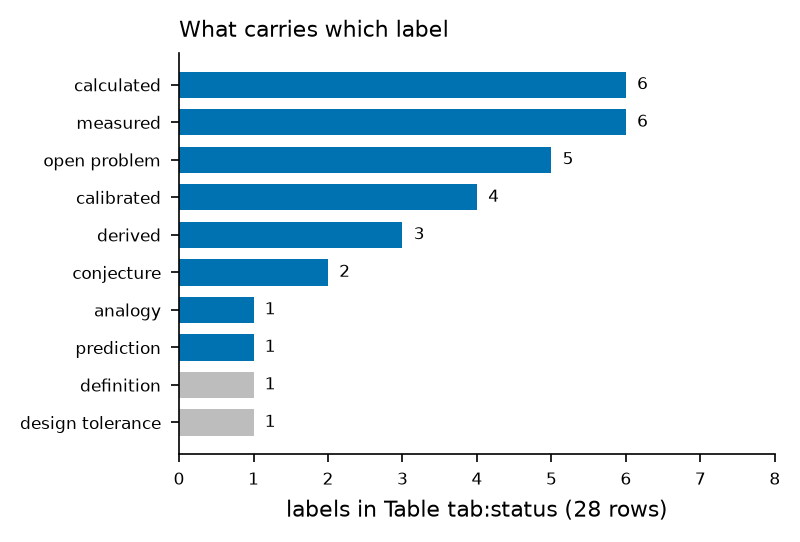
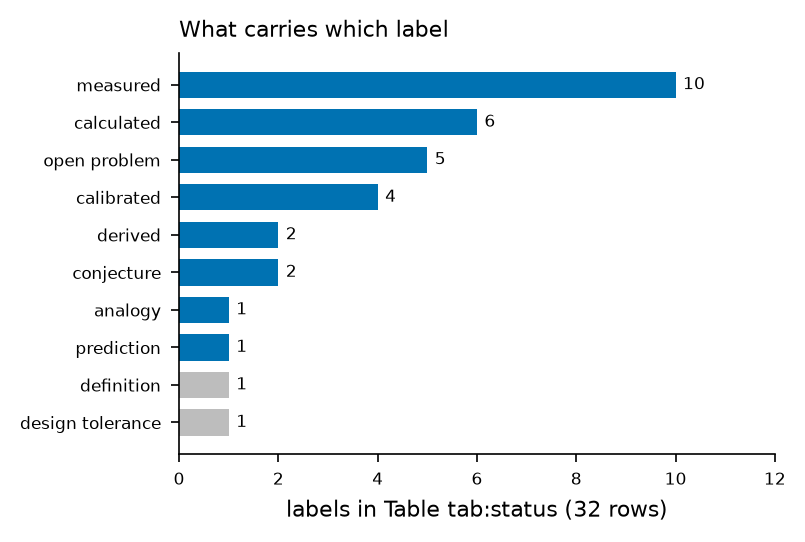
Book audit pass 2: leukocyte, status; summary figure with commissioned IAM-A; floor-at-temperature labels (OTH-072)

diff --git a/docs/book/part6/p6_22_leukocyte.tex b/docs/book/part6/p6_22_leukocyte.tex
@@ -33,14 +33,14 @@ All three are \conjecture.
 \toprule mechanism & end & which cells & test, and where it stands \\\midrule\endhead
 the leukocyte is the tumor: leukemias, lymphoma, myeloma; clonal hematopoiesis as the pre-malignant form & above & the affected lineage; the others near 1.00 & the affected lineage read against its own healthy floor. Not yet possible: on the neutrophil sites leukemic blood stayed Normal in 6 of 10, and progenitor floors on EPIC are not built \\
 aging & above & slowly, per person, over years & serial readings of one person; serial mode is not yet built (Chapter~\ref{ch:serial}) \\
-T-cell exhaustion, immunosenescence & below & CD4 and CD8 specifically, with neutrophils near 1.00 in the same specimen & needs T-cell floors; chain v3 reads neutrophils only \\
+T-cell exhaustion, immunosenescence & below & CD4 and CD8 specifically, with neutrophils near 1.00 in the same specimen & on single molecules, IAM-A now reads CD8 T cells against their own reference (commissioned on healthy CD8 T cells); on arrays, T-cell floors are not yet built \\
 emergency hematopoiesis: immature cells pushed out of the marrow & composition first & immature fraction up; immature cells may read below Normal & needs a progenitor group in Stage~A \\\bottomrule
 \end{longtable}
 \end{center}
 
 \section{Aging}
 
-The direction of aging on the neutrophil gauge is not yet measured on chain v3. \openprob{} One development reading on 450K arrays, outside the chain's platform, found
+The direction of aging on the neutrophil gauge is not yet measured by the commissioned chain. \openprob{} One development reading on 450K arrays, outside the chain's platform, found
 neutrophil Met-A rising with age among controls with $\rho=0.23$; the same arrays carried a slide effect large
 enough to split the reading by sex, so the trend is not separated from the instrument. \observed{} One reading is that an old immune system has had more written
 over a lifetime onto the same surface, with less headroom, which is the same direction as clonal hematopoiesis. \conjecture{} Whether an elevation in old blood is a slope
@@ -49,19 +49,17 @@ the others.
 
 \section{What the leukocyte gauge does not do}
 
-It does not detect a solid tumor through the blood cells' $A$. Immune cells are not expected to take on a tumor's state by fighting it. \conjecture{} A solid cancer, if it
-shows in whole blood at all, shows through composition or through shed cells. Chain v3 holds no template for a non-blood cell, so it does not detect shed cells at all
-(Chapter~\ref{ch:separation}). Plasma cell-free DNA, where shed cells are a much larger share, and single molecules, where a tumor's held error is read directly, are the
+It does not detect a solid tumor through the blood cells' $A$. Immune cells are not expected to take on a tumor's state by fighting it. \conjecture{} A solid cancer, if it shows in whole blood at all, shows through composition or through shed cells. Chain v4 reads composition against IAM-Atlas v2.1, whose 79 cell types include the cells of solid organs (Chapter~\ref{ch:atlas}, Section~\ref{sec:atlas:v21story}); the Deconvolver is commissioned for the shares of four blood cell types, and its reading of shed organ cells in blood is a test still to run. Plasma cell-free DNA, where shed cells are a much larger share, and single molecules, where a tumor's held error is read directly, are the
 routes for that question (Chapter~\ref{part4:ch:reach}).
 
 \section{Why a reading of one cell does not cancel}
 
 A score pooled over many sites and many cells, computed as a case group minus a control group, can move in opposite directions under different conditions without any cell going
 both ways. Two things produce that. Pooling: some sites drift up and others down, and one lineage moves one way while another moves the other, netted by a composition that itself
-moves with disease and age. And the comparison: a control group sitting above or below 1.00 flips the sign of a departure. Neither enters chain v3. One cell is read on its own
+moves with disease and age. And the comparison: a control group sitting above or below 1.00 flips the sign of a departure. Neither enters the chain. One cell is read on its own
 identity sites, against its own healthy reference, and the methylated and unmethylated channels can be reported apart (Chapter~\ref{ch:gauge}).
 
 \section{A count, not a score}
 
 For conditions that involve the immune system as a whole, the intended report is how many immune cell types read outside Normal, and which: a count of cell readings, not one score
-for the immune system as a whole. It needs a commissioned reading for each cell type and is not yet built. \openprob
+for the immune system as a whole. It needs a commissioned reading for each cell type and is not yet built. \openprob{} The test plan's immune track asks the same question organ by organ: whether the immune cells of whole blood carry a distinct reading for the organ in which a cancer is forming, read with Group-A on patients and healthy people run in the same series.

diff --git a/docs/book/part6/p6_24_status.tex b/docs/book/part6/p6_24_status.tex
@@ -18,18 +18,20 @@ departure from the floor means loss of maintained fidelity, not of energy & \con
 Met-A $=$ mean $H(\beta)$ on the cell's identity sites over the same cell type's healthy reference & definition & Ch.~\ref{ch:meta} \\ \rowrule
 neutrophil reference on EPIC: 6 physical arrays, 6,000 identity sites, floor 0.330263 bits & \calibrated & Ch.~\ref{ch:meta} \\ \rowrule
 held-out Met-A of the six reference arrays, SD 0.020 & \measured & Ch.~\ref{ch:meta} \\ \rowrule
-IAM-A $=\varepsilon/\varepsilon_{\rm pred}(L)$, each sample against its own loose share; band v1 $0.779$--$1.055$; commissioned 2026-10-17 on healthy blood CD8 T cells & line \measured, commissioned & Ch.~\ref{ch:iama} \\ \rowrule
+Met-A commissioned 2026-10-09 on isolated neutrophils, EPIC v1 & \measured, commissioned & Ch.~\ref{ch:meta} \\ \rowrule
+IAM-A $=\varepsilon/\varepsilon_{\rm pred}(L)$, each sample against its own loose share; band v1 $0.779$--$1.055$ & definition; line \measured & Ch.~\ref{ch:iama} \\ \rowrule
 $E_{\rm hold}=3.41\,\kB T$, $\varepsilon_0=0.032$, $\varphi=E_{\rm hold}/M=0.163$ & \measured, \calc & Ch.~\ref{ch:iama} \\ \rowrule
 neutrophil position $P=1.149$ (3 donors, whole files, 1.140--1.155), earlier position form, now a development flag & \measured & Ch.~\ref{ch:iama} \\ \rowrule
 IAM-Atlas v2.1, 79 cells: commissioned 2026-10-16 for three cell references (450K) and the colon and lung blind sites & \measured & Ch.~\ref{ch:atlas} \\ \rowrule
 Deconvolution tool (atlas v2.1): commissioned 2026-10-17 for blood-cell shares (neutrophils, monocytes, CD4 T, CD8 T; arrays) & \measured & Ch.~\ref{ch:atlas} \\ \rowrule
 IAM-A (sequencing, its own reference): commissioned 2026-10-17 on healthy blood CD8 T cells & \measured & Ch.~\ref{ch:iama} \\ \rowrule
+
 Met-A C-score baseline 1.0103 (blocks of 10); healthy band 0.877--1.152, read one-sided; commissioned on whole blood 2026-10-15 & \calibrated & Ch.~\ref{ch:cscore} \\ \rowrule
 $A=1$ healthy in the middle; Normal $=1\pm0.05$ & design tolerance & Ch.~\ref{ch:gauge} \\ \rowrule
 floor $\Hmin$: Met-A $1\times10^{-7}$, IAM-A $1$--$2\times10^{-8}$ (the sample's own); surface full: Met-A 3.03, IAM-A $0.5/\varepsilon_{\rm pred}(L)$, 6.68--12.41; C-score far end 45 & \calc & Ch.~\ref{ch:gauge} \\ \rowrule
 breach and the cancer region on this gauge & \openprob{} (to be measured) & Ch.~\ref{ch:gauge} \\ \rowrule
 the Met-A floor ($H_{\min}$ on the Met-A scale) & \openprob & Ch.~\ref{ch:gauge} \\ \rowrule
-held-error floor at fixed holding energy: $0.78\times$ at 10\,\textdegree C, $1.012\times$ at 38.5\,\textdegree C & \calc & Ch.~\ref{ch:temperature} \\ \rowrule
+at fixed holding energy, held error $\varepsilon_0$: $0.73\times$ at 10\,\textdegree C, $1.016\times$ at 38.5\,\textdegree C; entropy floor $H(\varepsilon_0)$: $0.78\times$ and $1.012\times$ & \calc & Ch.~\ref{ch:temperature} \\ \rowrule
 \multicolumn{3}{@{}l}{\emph{Instrument}}\\
 intake on the array's own numbers & \calibrated{} (adopted) & Ch.~\ref{ch:instrument} \\ \rowrule
 SNP-probe tare & \openprob{} (not commissioned) & Ch.~\ref{ch:instrument} \\ \rowrule
@@ -49,14 +51,14 @@ this Part on the one gauge.
 
 \begin{figure}[htbp]\centering
 \includegraphics[width=0.62\textwidth]{figures/part6/fig_p4_24_labels.pdf}
-\caption{Status labels in Table~\ref{tab:status}, counted from the table (28 rows; 6 carry MEASURED). Gray: rows whose status is a word
+\caption{Status labels in Table~\ref{tab:status}, counted from the table (32 rows; 10 carry MEASURED). Gray: rows whose status is a word
 rather than a label. \observed}
 \label{fig:p4_labels}
 \end{figure}
 \begin{figure}[htbp]\centering
 \includegraphics[width=0.98\textwidth]{figures/part6/fig_p4_24_summary.pdf}
 \caption{Measured readings of Part~\ref{part:4} on the one gauge, each against its own healthy reference: held-out reference neutrophils
-(Chapter~\ref{ch:meta}); held-out granulocyte donors on single molecules (Chapter~\ref{ch:iama}); tared mixtures
+(Chapter~\ref{ch:meta}); healthy CD8 T cells of IAM-A's sealed grand test, each against its own loose share, with IAM-A's own Normal band (band v1, 0.779--1.055) shaded on its row (Chapter~\ref{ch:iama}); tared mixtures
 (Chapter~\ref{ch:instrument}); IMR90 channels (Chapter~\ref{ch:gauge}). Normal shaded; log scale. \measured}
 \label{fig:p4_summary}
 \end{figure}

diff --git a/docs/book/figscripts/fig_p4.py b/docs/book/figscripts/fig_p4.py
@@ -825,8 +825,9 @@ def fig_status():
 def fig_summary():
     loo = pd.read_csv(RM / "Met_A_Floors" / "metA_floors_v1_3_loo.csv"); acc = pd.read_csv(MP / "chain_tests" / "chain_acceptance.csv"); d = dnmt()
     pr = pd.read_csv(MP / "doors" / "PROC_DNMT_01_PARTB" / "dnmt_b_pairs.csv"); tp = pd.read_csv(DD / "tumour_pairs.csv").dropna(subset=["ratio"]); im = imr90()
-    g = pd.read_csv(MP / "chain_tests" / "iama_floor_granulocytes.csv")
-    rows = [("held-out reference neutrophils (Met-A)", loo.A_loo, S.IAM), ("healthy granulocytes, held out (IAM-A)", g.A_own, S.IAM),
+    GR = json.load(open(MP / "doors" / "data" / "DEV_IAMA_GRAND_01" / "grand_scored.json"))   # IAM-A as commissioned (2026-10-18; was the retired position form)
+    gA = [r["A"] for r in GR["rows"] if r.get("read")]; gband = (GR["band"]["lo"], GR["band"]["hi"])
+    rows = [("held-out reference neutrophils (Met-A)", loo.A_loo, S.IAM), ("healthy CD8 T cells, sealed grand test (IAM-A)", gA, S.IAM),
             ("tared DNA mixtures (Met-A)", acc.loc[acc.group.str.contains("mixture", case=False), "A_rel_tared"].dropna(), S.IAM),
             ("senescent IMR90, unmethylated channel", im.loc[im.state == "Senescent", "A_unmeth"], S.GOLD),
             ("SV40 IMR90, methylated channel", im.loc[im.state == "SV40", "A_meth"], S.DATA)]
@@ -834,11 +835,12 @@ def fig_summary():
     normal_band(ax, axis="x")
     y = np.arange(len(rows))[::-1]; out = []
     for yi, (lab, v, c) in zip(y, rows):
+        if "IAM-A" in lab: ax.fill_betweenx([yi - 0.3, yi + 0.3], *gband, color=NCOL, alpha=0.22, lw=0, zorder=0)   # IAM-A's own Normal band (band v1)
         v = np.asarray(v, float); ax.plot([v.min(), v.max()], [yi, yi], color=c, lw=1.0); ax.plot(v, np.full(len(v), yi), "o", color=c, ms=3)
         out.append((lab, len(v), float(v.min()), float(v.max())))
     ax.set_xscale("log"); ax.set_xlim(0.6, 2.2); ax.set_xticks([0.6, 0.7, 0.8, 0.9, 1.0, 1.25, 1.5, 2.0], ["0.6", "0.7", "0.8", "0.9", "1", "1.25", "1.5", "2"])
     ax.minorticks_off(); ax.set_yticks(y, [r[0] for r in rows], fontsize=6.3); ax.set_xlabel("reading on the one gauge (log scale; healthy = 1)")
-    ax.set_title("Measured readings of Part 4 on one gauge (each against its own healthy reference)")
+    ax.set_title("Measured readings of the cellular chapters on one gauge (each against its own reference)")
     S.save(fig, "part6", "fig_p4_24_summary")
     return out
 

diff --git a/docs/book/part7/p7_11_status_all.tex b/docs/book/part7/p7_11_status_all.tex
@@ -94,7 +94,7 @@ Neutrophil reference on EPIC (Met-A) & 0.330263 bits; 6 arrays, 6,000 identity s
 Held-out reading of the six reference arrays & standard deviation 0.020 around 1 & \measured & Ch.~\ref{ch:meta} \\
 Floor and the full surface & floor: Met-A $1\times10^{-7}$, IAM-A $1$--$2\times10^{-8}$; full: Met-A 3.03, IAM-A $0.5/\varepsilon_{\rm pred}(L)$, 6.68--12.41 & \calc & Ch.~\ref{ch:gauge} \\
 Breach and the cancer region on the gauge & to be measured & \openprob & Ch.~\ref{ch:gauge} \\
-Held-error floor at fixed holding energy & $0.78\times$ at 10~\textdegree C; $1.012\times$ at 38.5~\textdegree C & \calc & Ch.~\ref{ch:temperature} \\
+Floor at fixed holding energy & held error $0.73\times$, entropy floor $0.78\times$ at 10~\textdegree C; $1.016\times$ and $1.012\times$ at 38.5~\textdegree C & \calc & Ch.~\ref{ch:temperature} \\
 Atlas v2 intervals on held-out data & 92.7\,\% coverage & \measured & Ch.~\ref{ch:atlas} \\
 Senescent fibroblasts & unmethylated channel cleaned (0.69) & \measured & Ch.~\ref{ch:gauge} \\
 \multicolumn{4}{@{}l}{\emph{Part~\ref{part:5}: synthesis}}\\

diff --git a/docs/book/part6/p6_10_temperature.tex b/docs/book/part6/p6_10_temperature.tex
@@ -13,8 +13,7 @@ measured at 37~\textdegree C as $3.41\,\kB T$, then at another temperature
   \varepsilon_0(T)=\frac{1}{1+\exp\!\left(E_{\rm hold}/\kB T\right)} ,
   \label{eq:eps0T}
 \end{equation}
-with no exponent to choose. \derived{} given a fixed holding energy. At 10~\textdegree C this gives $\varepsilon_0=0.0233$ and a
-floor $0.78$ times the human one; at 38.5~\textdegree C, $1.012$ times (Figure~\ref{fig:eps0T}). \calc{} The alternative is a
+with no exponent to choose. \derived{} given a fixed holding energy. At 10~\textdegree C this gives $\varepsilon_0=0.0233$, 0.73 times the human value, and an entropy floor $H(\varepsilon_0)$ $0.78$ times the human one; at 38.5~\textdegree C, $\varepsilon_0=0.0325$ and an entropy floor $1.012$ times (Figure~\ref{fig:eps0T}). \calc{} The alternative is a
 cell that holds its error fixed in units of $\kB T$, adjusting its holding energy with temperature. The two are distinguished by
 one measurement.
 

diff --git a/MANIFEST.md b/MANIFEST.md
@@ -957,7 +957,7 @@ Columns: **#** the test number · **Test** · **What it is for, and why it matte
 | **OTH-069** | The report, professional, with the C-score drawn on the sphere (HEALPix) | One report per sample: every commissioned reading with its status and limits, the cell shares, IAM-A against the sample's own line, and the C-score's departures drawn on a HEALPix sphere so the clustering is visible (a picture of the same residuals the C-score scores, not a new reading). | all | Loyfer 2023 via PROC-CHANNEL-01 and DEV-ARCH-01 · ** | run | not run | 2026-10-17: untested-scope readings worded plainly in report_v4 (author decision); clean clone run 7 PASS 25 of 25 | laptop | 5 | [LIMITS_STUDY_2026-10-17](development/LIMITS_STUDY_2026-10-17.md) |  |
 | **OTH-070** | One-button test from a fresh clone | A fresh clone on a clean rented machine, one command, public sample files in, reports out; every stage runs and every number equals the committed results (release check extended to chain v4). | all | Loyfer 2023 via PROC-CHANNEL-01 and DEV-ARCH-01 · ** | run | **2026-10-17** FAIL: clean clone run 1 (job i-0d4559e967ace0f61): 18 of 25; all 7 failures from an unpinned pyarrow needing NumPy 2<br>**2026-10-17** FAIL: clean clone run 2: 23 of 25; E3 tare dropped for whole blood since 2026-10-15 (LESSONS C21), E8 v4 gauge drawn when withheld; both fixed<br>**2026-10-17** FAIL: clean clone run 3: 21 of 25; tare restored; the claim scan read the gauge legend as prose (E3, E7, E10) and an empty gauge was drawn when withheld (E8); both fixed<br>**2026-10-17** SUCCESS: clean clone run 4 (job i-0e980d41f06e19212): RELEASE CHECK v4 PASS, 25 of 25, from a fresh public clone with a new environment from chain/requirements.txt only<br>**2026-10-17** FAIL: clean clone run 5 (job i-0e16beceebf3b188e): 23 of 25; the v3 technical record drew the retired position-form IAM-A gauge with no end once 4.26 was removed, the report crashed (E4, E9); the position form keeps its own end; E4 and E9 pass locally; run 6 confirms<br>**2026-10-17** SUCCESS: clean clone run 6 (job i-0aba950537dcf09ba): 25 of 25 with the per-sample IAM-A gauge end<br>**2026-10-17** SUCCESS: clean clone run 7 (job i-0d514d933409c720f): 25 of 25 with the untested-scope wording | done 2026-10-17: 25 of 25 from a fresh public clone (runs 4 and 6) | laptop | 5 | [LIMITS_STUDY_2026-10-17](development/LIMITS_STUDY_2026-10-17.md) |  |
 | **OTH-071** | Front page and repository: the commissioned chain front and center | Only the five commissioned instruments, the head-to-head wins and tests run by the commissioned chain on the front page and repository front; older results move to an archive folder (kept, not deleted). | all | Loyfer 2023 via PROC-CHANNEL-01 and DEV-ARCH-01 · ** | running | not run | 2026-10-17: the Commissioning Campaign numbers at the top of the page (compute_snapshot); next: further author review | laptop | 5 | [LIMITS_STUDY_2026-10-17](development/LIMITS_STUDY_2026-10-17.md) |  |
-| **OTH-072** | Book audit: the cellular part (AstroGenetics, the cosmic methylome, the cell, DNA, the instruments, the atlas) | Chapter by chapter: every statement checked against the committed records and the law; every error reported to the author and fixed. | all | Loyfer 2023 via PROC-CHANNEL-01 and DEV-ARCH-01 · ** | running | not run | pass 2 2026-10-18: Landauer, surface, identity, ledgers, Met-A, C-score, translation, instrument and discipline chapters read by hand and fixed; next: leukocyte, status, bridge, floor-breach, toolbox, report, reach, development, Part 7 and appendices | laptop | 5 | [LIMITS_STUDY_2026-10-17](development/LIMITS_STUDY_2026-10-17.md) |  |
+| **OTH-072** | Book audit: the cellular part (AstroGenetics, the cosmic methylome, the cell, DNA, the instruments, the atlas) | Chapter by chapter: every statement checked against the committed records and the law; every error reported to the author and fixed. | all | Loyfer 2023 via PROC-CHANNEL-01 and DEV-ARCH-01 · ** | running | not run | pass 2 2026-10-18: Landauer, surface, identity, ledgers, Met-A, C-score, translation, instrument, discipline, leukocyte and status chapters read by hand and fixed; status summary figure redrawn with IAM-A as commissioned; floor-at-temperature label clarified in three places; next: bridge, floor-breach, toolbox, report, reach, development, Part 7 and appendices | laptop | 5 | [LIMITS_STUDY_2026-10-17](development/LIMITS_STUDY_2026-10-17.md) |  |
 | **OTH-073** | Showcase runs of the commissioned chain: each instrument in its own arena, plus declines and one person through every array instrument | Seven scenarios run once through the one-command chain on unused public data, chosen by a written rule before any file is opened, shown whatever they read; they become the example runs researchers see first (OTH-068). | all | GSE350403, GSE281305 · *unspent (checked against CANON/data_spent.csv 2026-10-17)* | planned | not run | sources checked 2026-10-17 (plan Part 5): keep GSE350403 and GSE281305; replace GSE122244 (spent), GSE199057 (normals already read), GSE245832 (stimulated); find a fresh healthy CD8 WGBS set and a fresh colon tissue set; CD8 scenario: no fresh healthy resting CD8 WGBS on GEO, so a grand-test sample runs as a labeled demonstration (plan Part 5) | AWS, small | 5 | [TEST_PLAN_TRACKS_2026-10-17](development/TEST_PLAN_TRACKS_2026-10-17.md) |  |
 
 ## HIS

diff --git a/development/METHYLPHYS_DEVELOPMENT_LOG.md b/development/METHYLPHYS_DEVELOPMENT_LOG.md
@@ -2381,3 +2381,4 @@ Machines: i-02ddbcb364e254e53 i-0583ab0c226363999.
 
 Book audit pass 2 (OTH-072): Landauer (retired term; IAM-A own-reference reading added beside Met-A; WGBS comparison), identity (IAM-A needs no identity sites), ledgers, Met-A (whole-blood note; chain scope), surface (no change).
 Book audit pass 2 continued (OTH-072): C-score (figure labeled as the pre-2026-10-09 construction; HEALPix sky in the report), translation (two solvers in chain v4; the Normal band is a line on the gauge, not a comparison; map scores dated, three rows since in the chain), instrument (Met-A tare named; sequencing intake and shape check), discipline (five commissioned instruments; synthetic-first rule with C23; clean-clone release check).
+Book audit pass 2 continued (OTH-072): leukocyte (CD8 T cells on IAM-A; composition against IAM-Atlas v2.1; the immune track); status (Met-A commissioning row added, duplicate IAM-A row removed, summary figure redrawn with the grand-test readings and IAM-A's own band, label count 32 rows); temperature, status and Part 7 status: "held-error floor 0.78x" relabeled; 0.78 and 1.012 are the entropy floor H(eps0) ratios, the held error itself is 0.73x and 1.016x.
